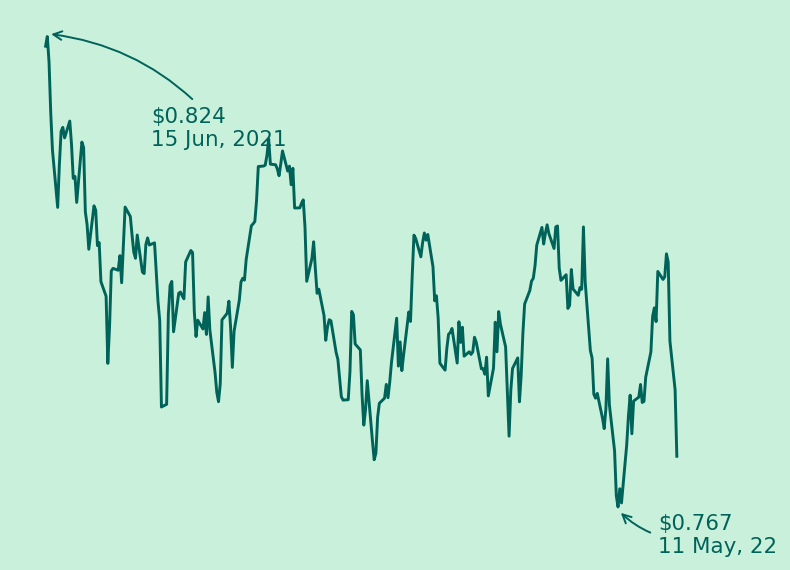
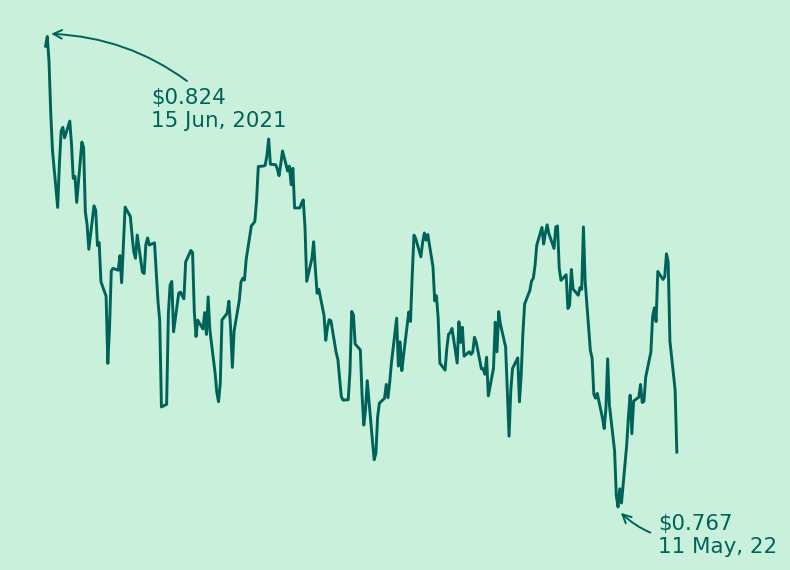
minor changes to formatting

Changed region(s): [[0.1519, 0.0895, 0.3646, 0.2684], [0.0608, 0.0596, 0.1519, 0.0895]]

diff --git a/main.py b/main.py
@@ -417,10 +417,10 @@ if choose == 'CAD-USD':
 
     column1, column2 = st.sidebar.columns([1, 1])
     with column1:
-        st.sidebar.subheader(f"$ {value}USD is equal to  $ {round(value*usd_to_can,3)} CAD")
+        st.sidebar.subheader(f"$ {value} USD is equal to  {round(value*usd_to_can,3)} CAD")
 
     with column2:
-        st.sidebar.subheader(f"$ {value} CAD is equal to  $ {round(value*can_to_us,3)} USD")
+        st.sidebar.subheader(f"$ {value} CAD is equal to  {round(value*can_to_us,3)} USD")
 
     with st.expander("Expand to view a chart of yearly exchange rate values"):
 

diff --git a/cad_eur_charts.py b/cad_eur_charts.py
@@ -286,7 +286,7 @@ def can_usd_chart():
                  )
 
     plt.annotate(f"${usd_can_yr_low_value}\n{usd_can_yr_low_date.strftime('%d %b, %Y')}",
-                 xytext=(usd_can_yr_low_date + datetime.timedelta(days=60), usd_can_yr_low_value - 0.0133),
+                 xytext=(usd_can_yr_low_date + datetime.timedelta(days=60), usd_can_yr_low_value - 0.0111),
                  xy=(usd_can_yr_low_date, usd_can_yr_low_value),
                  xycoords="data",
                  textcoords="data",
